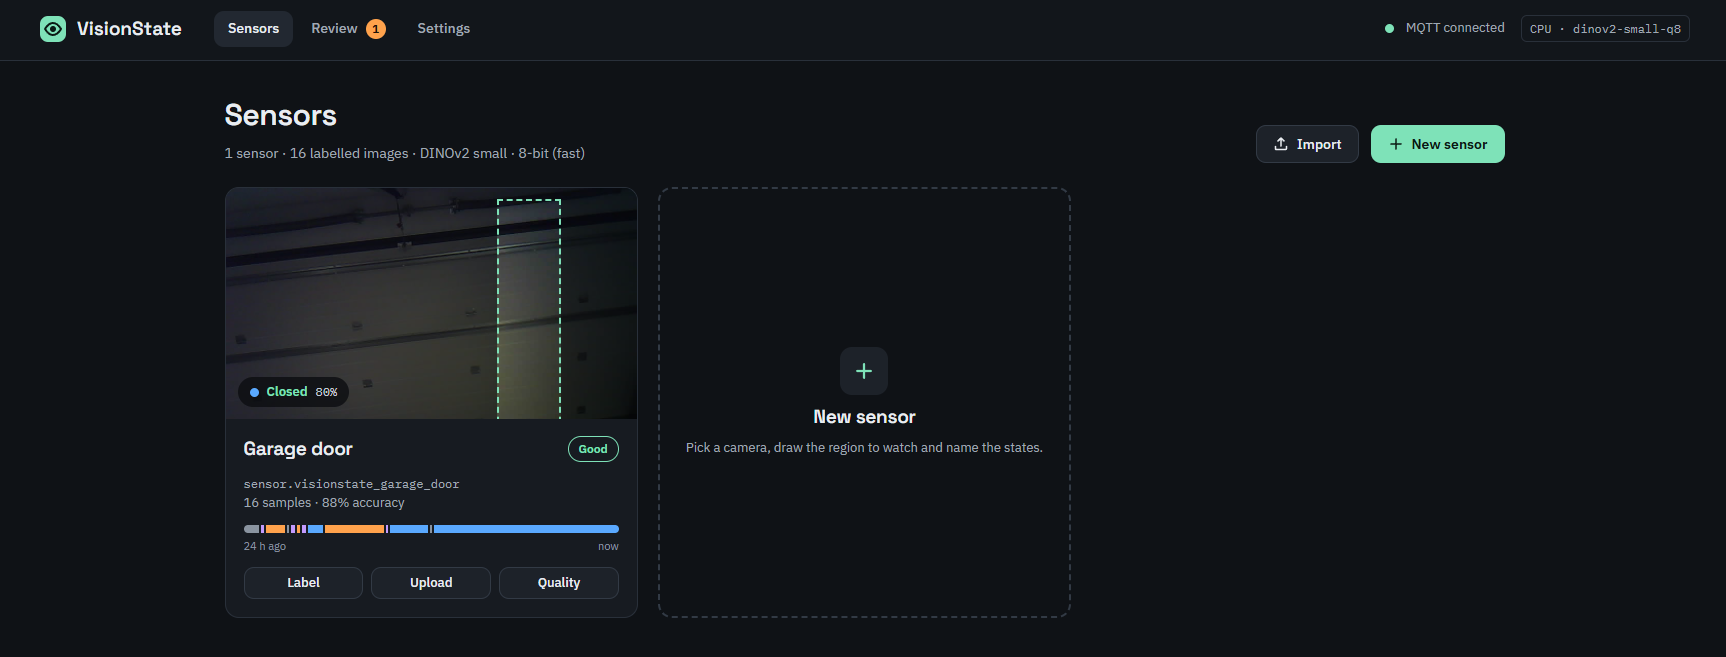
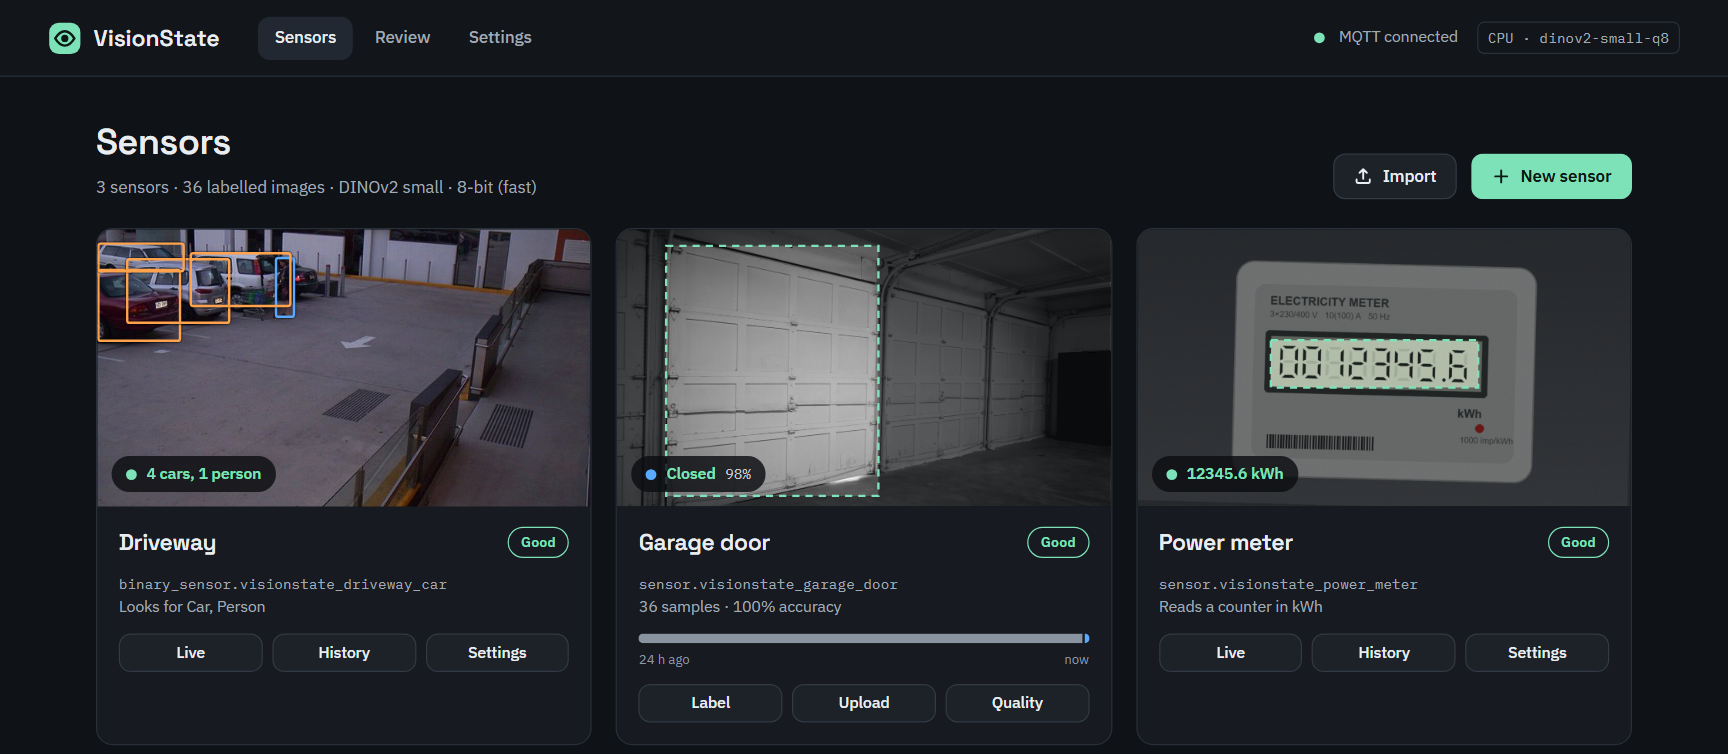
Docs: new screenshots for objects, readings and the wizard
Replace the old label/review screenshots: the dashboard now shows one sensor
of each kind (garage door, driveway, power meter); 'A look inside' shows an
object sensor, a reading sensor and the new sensor wizard.

Claude-Session: https://claude.ai/code/session_01TRe6P1arANjSep5Ni5Fjpj

diff --git a/README.md b/README.md
@@ -27,7 +27,7 @@
 </p>
 
 <p align="center">
-  <img src="docs/promo/dashboard.png" alt="VisionState dashboard with a garage door sensor" width="900">
+  <img src="docs/promo/dashboard.png" alt="VisionState dashboard with a garage door, a driveway and a power meter sensor" width="900">
 </p>
 
 ## Why VisionState?
@@ -62,12 +62,18 @@ without writing code or leaving Home Assistant:
 
 <table>
   <tr>
-    <td width="50%" valign="top"><img src="docs/promo/label.png" alt="Labelling live frames" width="100%"></td>
-    <td width="50%" valign="top"><img src="docs/promo/review.png" alt="Review queue" width="100%"></td>
+    <td width="50%" valign="top"><img src="docs/promo/objects.png" alt="An object sensor finding dogs and a person" width="100%"></td>
+    <td width="50%" valign="top"><img src="docs/promo/reading.png" alt="A reading sensor reading a power meter" width="100%"></td>
   </tr>
   <tr>
-    <td valign="top"><b>Label</b> — live camera image with the region you drew, the current prediction, day/night coverage and one button per state.</td>
-    <td valign="top"><b>Review</b> — frames the AI was unsure about. Confirm or correct with a single key press.</td>
+    <td valign="top"><b>Objects</b> — people, cars, animals and more, found without any training. Each one becomes an on/off sensor and a count in Home Assistant.</td>
+    <td valign="top"><b>Reading</b> — the number on a meter or display, checked before it is published: a counter never goes down.</td>
+  </tr>
+  <tr>
+    <td colspan="2" valign="top"><img src="docs/promo/wizard.png" alt="The new sensor wizard testing an object sensor on a fresh frame" width="100%"></td>
+  </tr>
+  <tr>
+    <td colspan="2" valign="top"><b>New sensor</b> — pick a camera, draw the region and choose what to detect: your own states, objects or a number. The wizard tests it on a fresh frame right away.</td>
   </tr>
 </table>
 

diff --git a/visionstate/DOCS.md b/visionstate/DOCS.md
@@ -1,6 +1,6 @@
 # VisionState
 
-![Labelling a garage door](https://raw.githubusercontent.com/oleost/VisionState/main/docs/promo/label.png)
+![VisionState with a garage door, a driveway and a power meter sensor](https://raw.githubusercontent.com/oleost/VisionState/main/docs/promo/dashboard.png)
 
 Teach a local AI to recognise **states** in camera images — a garage door that is `open`,
 `closed` or `partial`, a gate, a parking spot, a light — and use the result as a normal
